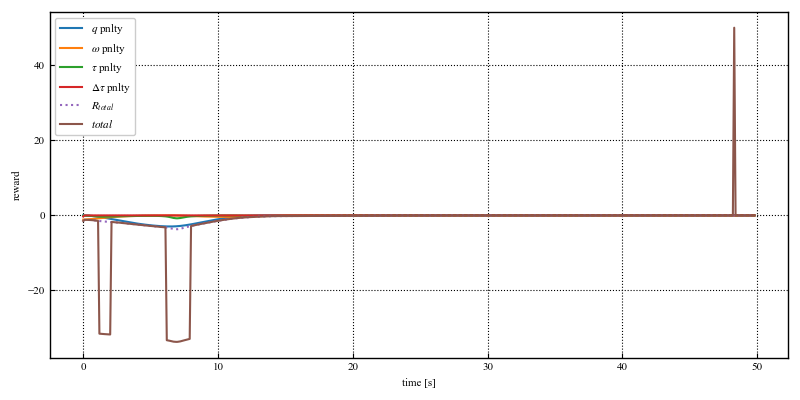
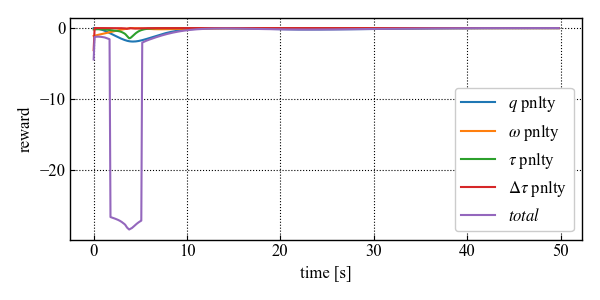
eval

Changed region(s): [[0.0, 0.0, 0.99, 0.99]]

diff --git a/td3/train.py b/td3/train.py
@@ -20,7 +20,7 @@ def train():
         "batch_size": 128,
         "critic_lr": 1e-3,
         "actor_lr": 1e-4,
-        "max_episodes": 10000,
+        "max_episodes": 5000,
         "max_steps": 500,
         "gamma": 0.99,
         "tau" : 1e-3,
@@ -175,9 +175,9 @@ def evaluate():
     #-------------------plot settings------------------------------
     plt.rcParams['font.family'] = 'Times New Roman' # font familyの設定
     plt.rcParams['mathtext.fontset'] = 'stix' # math fontの設定
-    plt.rcParams["font.size"] = 8 # 全体のフォントサイズが変更されます。
-    plt.rcParams['xtick.labelsize'] = 8 # 軸だけ変更されます。
-    plt.rcParams['ytick.labelsize'] = 8 # 軸だけ変更されます 
+    plt.rcParams["font.size"] = 12 # 全体のフォントサイズが変更されます。
+    plt.rcParams['xtick.labelsize'] = 12 # 軸だけ変更されます。
+    plt.rcParams['ytick.labelsize'] = 12 # 軸だけ変更されます 
     plt.rcParams['xtick.direction'] = 'in' # x axis in
     plt.rcParams['ytick.direction'] = 'in' # y axis in 
     plt.rcParams['axes.linewidth'] = 1.0 # axis line width
@@ -188,8 +188,8 @@ def evaluate():
     plt.rcParams["legend.facecolor"] = "white"  # 背景色
     # plt.rcParams["legend.edgecolor"] = "black"  # 囲いの色
     plt.rcParams["legend.fancybox"] = True     # Trueにすると囲いの四隅が丸くなる
-    tate = 4.0
-    yoko = 8.0
+    tate = 3.0
+    yoko = 6.0
     #------------------------------------------------
 
     # plt.figure(figsize=(yoko,tate),dpi=100)
@@ -310,7 +310,7 @@ def evaluate():
     plt.plot(np.arange(max_steps)*dt, r_hist[:,1],label = r"$\omega$ pnlty")
     plt.plot(np.arange(max_steps)*dt, r_hist[:,2],label = r"$\tau$ pnlty")
     plt.plot(np.arange(max_steps)*dt, r_hist[:,3],label = r"$\Delta\tau$ pnlty")
-    plt.plot(np.arange(max_steps)*dt, np.sum(r_hist,axis = 1),label = r"$R_{total}$",linestyle='dotted')
+    # plt.plot(np.arange(max_steps)*dt, np.sum(r_hist,axis = 1),label = r"$R_{total}$",linestyle='dotted')
     plt.plot(np.arange(max_steps)*dt, R,label = r"$total$")
     # plt.title('Action')
     plt.ylabel('reward')

diff --git a/td3/environment.py b/td3/environment.py
@@ -280,7 +280,7 @@ class SatelliteContinuousEnv(gym.Env):
             self.r4 = self.action_rate_weight*(action_delta@action_delta)/self.dt
             reward = -(self.r1 + self.r2 + self.r3 + self.r4) 
             if max(abs(action)) > 0.5:
-                reward += -100 
+                reward += -25 
 
         elif self.steps_beyond_done is None:
             # epsiode just ended
@@ -290,7 +290,7 @@ class SatelliteContinuousEnv(gym.Env):
                 self.r2 = 0
                 self.r3 = 0
                 self.r4 = 0
-                reward = 1000
+                reward = 0
             else:
                 self.r1 = self.q_weight*((1-qe_new[0])**2+ qe_new[1:]@qe_new[1:])
                 self.r2 = self.w_weight*omega_new@omega_new
@@ -327,7 +327,7 @@ class SatelliteContinuousEnv(gym.Env):
         # self.startEuler = np.deg2rad(np.array([10,0,0]))
         self.startQuate = self.dcm2quaternion(self.euler2dcm(self.startEuler))
         # self.startOmega = np.array([0,0,0])
-        coef = 2*np.random.randint(0,2,size=3)-1
+        coef = 1#2*np.random.randint(0,2,size=3)-1
         self.startOmega = coef* np.deg2rad(np.array([5,-5,5]))#+ np.random.uniform(-1, 1, size=3))
 
         # 目標値(deg)
